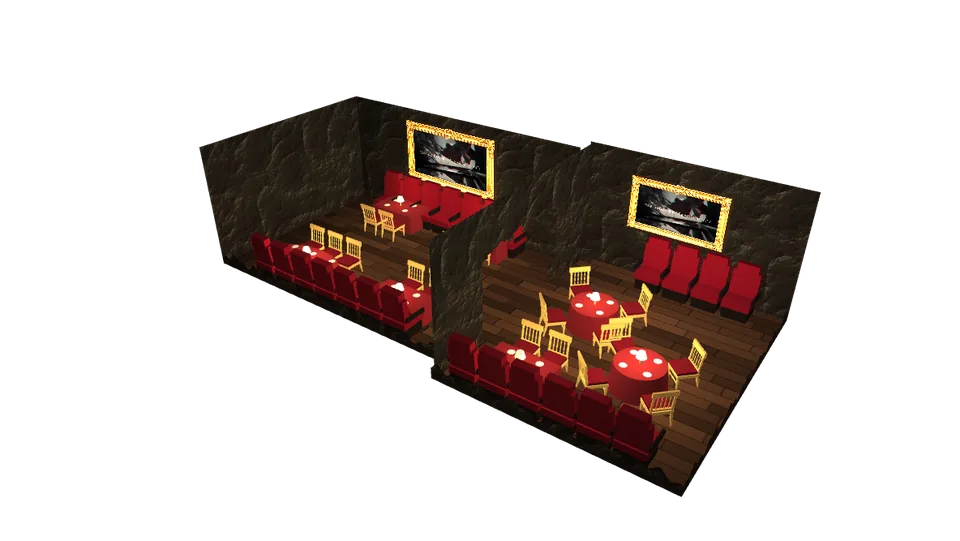
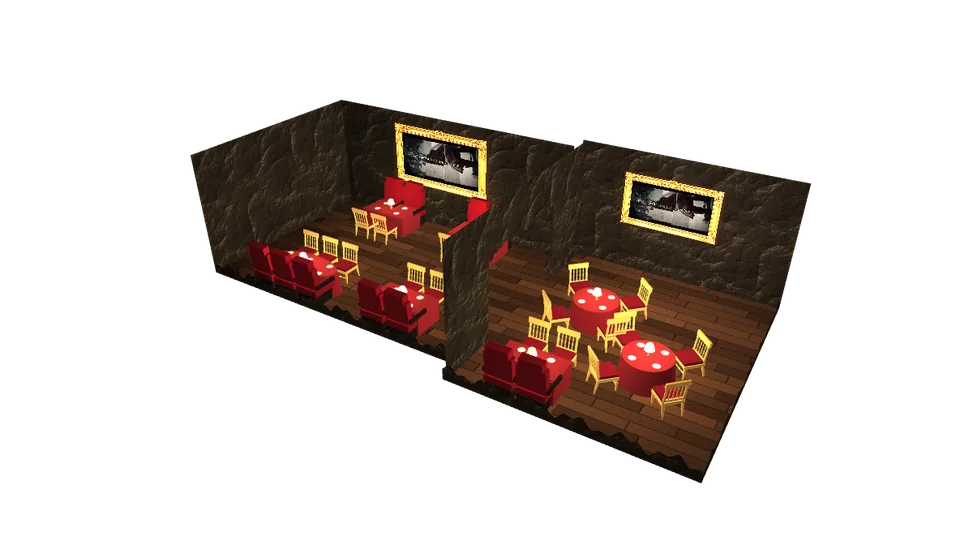
Grotte Napoléon : des sièges de cinéma seulement derrière les tables collées au mur
Claude-Session: https://claude.ai/code/session_01Tg9JuR8WfKBoHUYi3GMpp1

Changed region(s): [[0.1875, 0.1774, 0.875, 0.9168], [0.5625, 0.3253, 0.5938, 0.3845], [0.3125, 0.2957, 0.3438, 0.3253]]

diff --git a/clients/la-grotte-napoleon/salle.js b/clients/la-grotte-napoleon/salle.js
@@ -1,6 +1,6 @@
 /* La salle de la Grotte en 3D, vue en plongée comme une maquette (WebGL écrit à la main, sans bibliothèque), d'après la photo
    et de la vidéo de la vraie salle : une longue galerie de roche NOIRE (la roche ne se voit que là où les lampes et les écrans
-   l'éclairent), parquet sombre, nappes rouges jusqu'au sol, rangées de sièges de cinéma capitonnés rouges le long des murs, assiettes de présentation argentées, lampes à abat-jour (crème à
+   l'éclairent), parquet sombre, nappes rouges jusqu'au sol, sièges de cinéma capitonnés rouges contre le mur derrière chaque table collée au mur, assiettes de présentation argentées, lampes à abat-jour (crème à
    la couronne, ou vert) qui font une lumière chaude, cadres dorés haut sur les murs, rien d'autre sur les murs ; au fond, une arcade ouvre sur la seconde salle (trois écrans, tables rondes).
    Les écrans passent le film de présentation (images/salle.mp4) et leur lumière prend la couleur du film.
    Les murs côté caméra s'abaissent pour qu'on voie dedans. La caméra tourne lentement ; on peut la tourner à la souris ou au doigt.
@@ -99,10 +99,10 @@
     [X2 - .62, -1.2, .28, .5]];
   const RONDES = [[-.3, -1.35, .4], [.75, -2.65, .4]];
   const CHAISES = [], FAUTEUILS = [];
-  /* les rangées de sièges de cinéma capitonnés rouges, collées aux murs comme sur les photos et la vidéo :
-     [x du siège, z de début, z de fin, sens vers l'allée] ; un siège tous les 0,54 */
-  for (const [x, z0, z1, s] of [[-X + .3, 1.0, 4.6, 1], [X - .3, .9, 4.6, -1], [-X2 + .3, ZF + .5, -1.5, 1], [X2 - .3, ZF + .5, -.5, -1]])
-    for (let z = z0 + .27; z < z1; z += .54) FAUTEUILS.push([x, z, s]);
+  /* les sièges de cinéma capitonnés rouges, collés au mur, seulement devant les tables collées au mur (demande de
+     l'utilisateur : pas de sièges là où il n'y a pas de table) ; un siège tous les 0,54, deux par table de quatre, trois pour la table de six */
+  for (const [x, z, , hz] of LONGUES) { const s = x < 0 ? 1 : -1, n = Math.max(2, Math.round(hz * 2 / .54));
+    for (let k = 0; k < n; k++) FAUTEUILS.push([x - s * .32, z - (n - 1) * .27 + k * .54, s]); }
   for (const [x, z, hx, hz] of LONGUES) {
     const n = Math.max(2, Math.round(hz * 2 / .52)), pas = hz * 2 / n, s = x < 0 ? 1 : -1;  /* s : vers l'allée */
     for (let k = 0; k < n; k++) { const zz = z - hz + pas * (k + .5); CHAISES.push([x + s * (hx + .26), zz, s * Math.PI / 2]); }

diff --git a/clients/la-grotte-napoleon/boutique.html b/clients/la-grotte-napoleon/boutique.html
@@ -272,6 +272,6 @@
 
 <script src="produits.js?v=20261102b"></script>
 <script src="textes.js?v=20261102b"></script>
-<script src="grotte.js?v=20261102j"></script>
+<script src="grotte.js?v=20261102k"></script>
 </body>
 </html>

diff --git a/clients/la-grotte-napoleon/panier.html b/clients/la-grotte-napoleon/panier.html
@@ -81,6 +81,6 @@
 
 <script src="produits.js?v=20261102b"></script>
 <script src="textes.js?v=20261102b"></script>
-<script src="grotte.js?v=20261102j"></script>
+<script src="grotte.js?v=20261102k"></script>
 </body>
 </html>

diff --git a/clients/la-grotte-napoleon/produit.html b/clients/la-grotte-napoleon/produit.html
@@ -91,6 +91,6 @@
 
 <script src="produits.js?v=20261102b"></script>
 <script src="textes.js?v=20261102b"></script>
-<script src="grotte.js?v=20261102j"></script>
+<script src="grotte.js?v=20261102k"></script>
 </body>
 </html>

diff --git a/clients/la-grotte-napoleon/reserver.html b/clients/la-grotte-napoleon/reserver.html
@@ -94,6 +94,6 @@
 </div>
 
 <script src="textes.js?v=20261102b"></script>
-<script src="grotte.js?v=20261102j"></script>
+<script src="grotte.js?v=20261102k"></script>
 </body>
 </html>

diff --git a/clients/la-grotte-napoleon/formules.html b/clients/la-grotte-napoleon/formules.html
@@ -147,6 +147,6 @@
 
 
 <script src="textes.js?v=20261102b"></script>
-<script src="grotte.js?v=20261102j"></script>
+<script src="grotte.js?v=20261102k"></script>
 </body>
 </html>

diff --git a/clients/la-grotte-napoleon/index.html b/clients/la-grotte-napoleon/index.html
@@ -205,6 +205,6 @@
 
 
 <script src="textes.js?v=20261102b"></script>
-<script src="grotte.js?v=20261102j"></script>
+<script src="grotte.js?v=20261102k"></script>
 </body>
 </html>

diff --git a/clients/la-grotte-napoleon/NOTES.md b/clients/la-grotte-napoleon/NOTES.md
@@ -78,3 +78,4 @@ Tout ce qui a été fait, décidé ou refusé sur ce site (repris de `ETAT.md` l
 - **Plus de fenêtre noire (2 novembre 2026, demande de l’utilisateur : « laisse juste la maquette sur le fond du site »)** : la toile WebGL est transparente (`alpha: true`, effacement à alpha 0, brume repoussée, poussière additive avec un alpha qui suit sa lumière pour ne pas faire de carrés) ; dans `grotte.css`, `.salle3d` n’a plus de fond, de cadre, d’ombre ni de masque radial, et l’image fixe s’efface dès que la 3D est prête (sinon elle se voyait à travers la toile). L’image de secours `salle-affiche.webp` est maintenant une capture de la toile seule, à fond transparent (`object-fit: contain`). Pages en `grotte.js?v=20261102h` et `grotte.css?v=20261102c`.
 - **Fauteuils de cinéma hors du mur (2 novembre 2026, signalé par l’utilisateur : « les sièges de cinéma mangent les murs »)** : leur centre était presque sur le mur, ils le traversaient ; ils sont ramenés à 0,22 du centre de la table (le mur est à 0,52), serrés contre le mur sans le toucher. Image de secours refaite. Pages en `grotte.js?v=20261102i`.
 - **La disposition revue d’après la vidéo et trois photos renvoyées par l’utilisateur (2 novembre 2026)** : elles sont gardées dans `images/salle-photo-1..3.webp` et `images/salle-visite.mp4` (référence pour la maquette, pas utilisées sur le site). Ce qu’elles montrent : parquet sombre (pas de tapis rouge), rangées continues de sièges de cinéma capitonnés rouges à appuie-tête le long des deux murs de la grande salle et des deux murs de la salle du fond, tables à nappe rouge devant ces rangées (chaises dorées côté allée), tables rondes au milieu de la salle du fond, écrans haut sur les murs dans des cadres simples clairs, appliques à bougies rouges, spots rouges au plafond qui rougissent la roche, rideaux noirs sur le mur droit du fond de la grande salle et au fond. Dans `salle.js` : sol en parquet calculé dans le shader (lames de 0,22 dans la longueur, nuances, joints, bouts décalés, `bois`), rangées de sièges (socle sombre, assise, dossier incliné, appuie-tête, accoudoirs ; un siège tous les 0,54 ; plus de fauteuils tirés des tables), tables collées au mur reculées à 0,62 du mur. Les appliques, les rideaux et le mannequin, visibles sur les photos, restent retirés (demande de l’utilisateur). Les cadres restent ceux faits par l’utilisateur (plus ouvragés que les vrais). Image de secours refaite. Pages en `grotte.js?v=20261102j`.
+- **Sièges seulement derrière les tables (2 novembre 2026, demande de l’utilisateur : « enlève les sièges où il n’y a pas de table, les gens n’ont pas besoin de savoir que la salle est modulable et ça fait laid »)** : plus de rangées continues ; les sièges de cinéma sont tirés des tables collées au mur (deux par table de quatre, trois pour la table de six), rien le long des murs nus ni dans la salle du fond à gauche. On revient ainsi aux 30 places. Image de secours refaite. Pages en `grotte.js?v=20261102k`.
